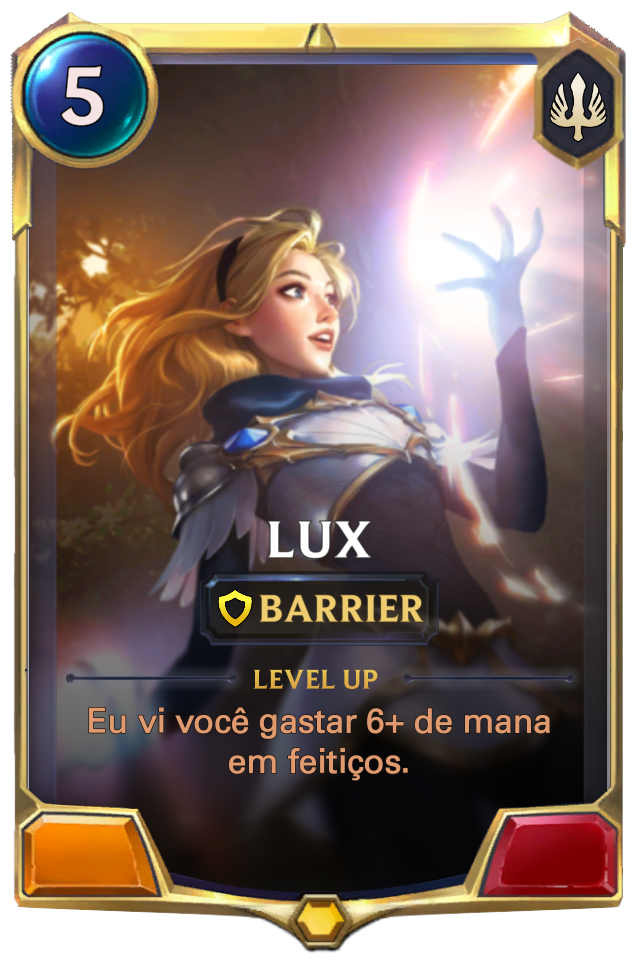
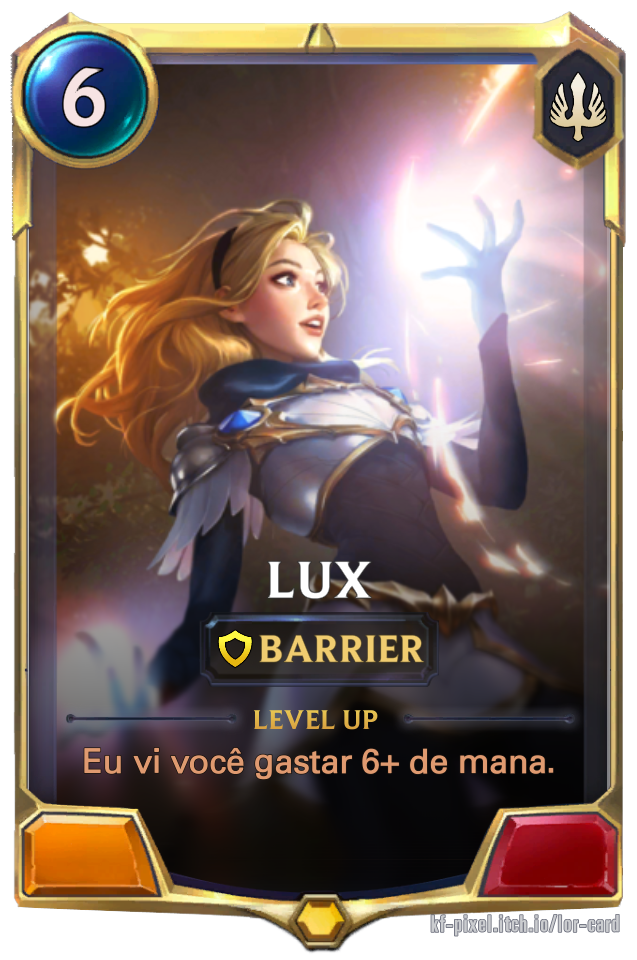
Implementado Lucian e criados alguns efeitos novos para cartas em Effects.java

diff --git a/LegendsOfRuneterra/src/game/Game.java b/LegendsOfRuneterra/src/game/Game.java
@@ -86,6 +86,7 @@ public class Game {
                         else {
                             validTurn = true;
                             currentPlayer.removeCard(nextCard);
+                            updateAllEffects(Trigger.SPENT_MANA, currentPlayer.getBoard(), opponentBoard, nextCard.getCost());
                             checkDeaths(currentPlayer.getBoard(), opponentBoard);
                             checkDeaths(opponentBoard, currentPlayer.getBoard());
                             passed = false;
@@ -126,8 +127,8 @@ public class Game {
                     follower.heal(0, true);
                 }
             }
-            updateAllEffects(Trigger.ROUND_END, blueBoard, redBoard);
-            updateAllEffects(Trigger.ROUND_END, redBoard, blueBoard);
+            updateAllEffects(Trigger.ROUND_END, blueBoard, redBoard, 0);
+            updateAllEffects(Trigger.ROUND_END, redBoard, blueBoard, 0);
         }
 
         if (loser == Color.BLUE) {
@@ -171,7 +172,7 @@ public class Game {
         int[] toAttack = Arrays.stream(scan.nextLine().split(" ")).mapToInt(Integer::parseInt).toArray();
         for (int i = 0; i < toAttack.length; i++){
             for (Effect effect : attackingBoard.getCards().get(i).getEffects()){
-                effect.checkTrigger(Trigger.ATTACK, attackingBoard, defendingBoard, attackingBoard.getCards().get(i));
+                effect.checkTrigger(Trigger.ATTACK, attackingBoard, defendingBoard, attackingBoard.getCards().get(i), 0);
             }
             attackingBoard.moveToCombat(i, toAttack[i]);
         }
@@ -199,7 +200,9 @@ public class Game {
                     attackers.get(i).strike(defenders.get(i), attackingBoard, defendingBoard);
                 }
                 attackers.get(i).strike(defenders.get(i), attackingBoard, defendingBoard);
-                defenders.get(i).strike(attackers.get(i), attackingBoard, defendingBoard);
+                if (attackers.get(i).hasTrait(Trait.DOUBLE_ATTACK) == false && attackers.get(i).hasTrait(Trait.QUICK_ATTACK) == false && defenders.get(i).getCurrentHealth() > 0){
+                    defenders.get(i).strike(attackers.get(i), attackingBoard, defendingBoard);
+                }
             }
             if (attackers.get(i).hasTrait(Trait.FURY) && defenders.get(i).getCurrentHealth() <= 0){
                 attackers.get(i).triggerFury();
@@ -238,8 +241,8 @@ public class Game {
 
         checkWin(attackingPlayer);
         
-        updateAllEffects(Trigger.ROUND_START, redBoard, blueBoard);
-        updateAllEffects(Trigger.ROUND_START, blueBoard, redBoard);
+        updateAllEffects(Trigger.ROUND_START, redBoard, blueBoard, 0);
+        updateAllEffects(Trigger.ROUND_START, blueBoard, redBoard, 0);
     }
 
     private void checkDeaths(Board myBoard, Board opponentBoard){
@@ -250,8 +253,9 @@ public class Game {
                 }
                 else {
                     for (Effect effect : myBoard.getCombatingFollowers().get(i).getEffects()){
-                        effect.checkTrigger(Trigger.LAST_BREATH, myBoard, opponentBoard, myBoard.getCombatingFollowers().get(i));
+                        effect.checkTrigger(Trigger.LAST_BREATH, myBoard, opponentBoard, myBoard.getCombatingFollowers().get(i), 0);
                     }
+                    updateAllEffects(Trigger.SEEN_ALLY_DIE, myBoard, opponentBoard, 0);
                     myBoard.getCombatingFollowers().remove(i);
                 }
             }
@@ -259,10 +263,10 @@ public class Game {
     }
 
 
-    private void updateAllEffects(Trigger trigger, Board myBoard, Board opponentBoard){
+    private void updateAllEffects(Trigger trigger, Board myBoard, Board opponentBoard, int amount){
         for (Follower follower : myBoard.getCards()) {
             for (Effect effect : follower.getEffects()) {
-                effect.checkTrigger(trigger, myBoard, opponentBoard, follower);
+                effect.checkTrigger(trigger, myBoard, opponentBoard, follower, amount);
             }
         }
     }

diff --git a/LegendsOfRuneterra/src/card/Effect.java b/LegendsOfRuneterra/src/card/Effect.java
@@ -38,7 +38,7 @@ public class Effect implements Cloneable{
         this.cardName = cardName;
     }
 
-    private void applyEffect(game.Board myBoard, game.Board opponentBoard, Follower self_follower) {
+    private void applyEffect(game.Board myBoard, game.Board opponentBoard, Follower self_follower, int amount3) {
         Scanner scan = new Scanner(System.in);
 
         switch(effect) {
@@ -163,9 +163,9 @@ public class Effect implements Cloneable{
                     ally = scan.nextInt();
                 }
                 else {
-                    ally = myBoard.getPlayer().getRandomResult(myBoard.getCards().size());
+                    ally = opponentBoard.getPlayer().getRandomResult(opponentBoard.getCards().size());
                 }
-                myBoard.getCards().get(ally).addTempBuff(-myBoard.getCards().get(ally).getTemporaryPower(), 0);
+                opponentBoard.getCards().get(ally).addTempBuff(-myBoard.getCards().get(ally).getTemporaryPower(), 0);
             }
 
             case 10: // Cria uma barreira que anula o próximo dano que uma unidade aliada levaria. Dura uma rodada.
@@ -187,25 +187,45 @@ public class Effect implements Cloneable{
             case 11: //Golpeia o nexus do adversário para n pontos de dano.
             opponentBoard.getPlayer().takeDamage(amount1);
     
-            case 12://efeito de buff temporário
+            case 12://Efeito de buff temporário
             self_follower.buff(-amount1, -amount2);
             self_follower.getEffects().remove(this);
 
             case 13://Evolução
-            amount1 += 1;
-            Champion champion = (Champion)self_follower;
-            champion.checkEvolution();
-
+            amount1 += amount3;
+            if (amount1 >= amount2){
+                Champion champion = (Champion)self_follower;
+                champion.checkEvolution();
+            }
+            
             case 14: //Deixe o inimigo mais forte com 0 de poder nesta rodada.
-
+            if (opponentBoard.getCards().size() != 0){
+                Follower mostPowerful = opponentBoard.getCards().get(0);
+                for (Follower follower : opponentBoard.getCards()){
+                    if (follower.getTemporaryPower() > mostPowerful.getTemporaryPower()){
+                        mostPowerful = follower;
+                    }
+                }
+                mostPowerful.addTempBuff(-mostPowerful.getTemporaryPower(), 0);
+            }
+            
             case 15: //Dê n de dano a todas as unidades.
+            for (Follower opponent : opponentBoard.getCards()){
+                opponent.takeDamage(amount1);
+            }
+            for (Follower ally : myBoard.getCards()){
+                ally.takeDamage(amount1);
+            }
+            
+            case 16://Dê +n/+m a si mesmo
+            self_follower.buff(amount1, amount2);
         }
         scan.close();
     }
 
-    public void checkTrigger(Trigger occurredTrigger, Board myBoard, Board opponentBoard, Follower follower){
+    public void checkTrigger(Trigger occurredTrigger, Board myBoard, Board opponentBoard, Follower follower, int amount){
         if (trigger == occurredTrigger){
-            applyEffect(myBoard, opponentBoard, follower);
+            applyEffect(myBoard, opponentBoard, follower, amount);
         }
     }
 

diff --git a/LegendsOfRuneterra/src/card/champion/demacia/Lucian.java b/LegendsOfRuneterra/src/card/champion/demacia/Lucian.java
@@ -1,24 +1,31 @@
 package card.champion.demacia;
 
+import card.Effect;
 import card.Region;
 import card.Trait;
+import card.Trigger;
 import card.champion.Champion;
 
 public class Lucian extends Champion {
 
-  private int increasedPower;
+  private int evolutionCounter;
 
   public Lucian() {
-    super("Lucian", "Subir de nível\n ", 2, 2, 3, Region.DEMACIA);
-    this.traits.add(Trait.DOUBLE_ATTACK);
+    super("Lucian", "Subir de nível\n ", 2, 2, 3, Region.DEMACIA, "/src/assets/demacia/lucian.png");
+    this.traits.add(Trait.QUICK_ATTACK);
 
-    this.increasedPower = 0;
+    this.evolutionCounter = 0;
   }
 
   @Override
   public void evolve() {
     System.out.println("Lucian Evoluiu!");
     System.out.println("Lucian - Todo mundo morre, alguns só precisam de uma ajudinha!!");
+
+    effects.remove(0);
+    effects.add(new Effect(16, 1, 0, Trigger.SEEN_ALLY_DIE));
+    traits.remove(Trait.QUICK_ATTACK);
+    traits.add(Trait.DOUBLE_ATTACK);
 
     this.basePower = 4;
     this.baseHealth = 3;
@@ -27,11 +34,11 @@ public class Lucian extends Champion {
   }
 
   @Override
-  public boolean checkEvolution() {
-    if (this.increasedPower >= 2) {
-      return true;
+  public void checkEvolution() {
+    evolutionCounter += 1;
+    if (evolutionCounter >= 4){
+      evolve();
     }
-    return false;
   }
 
 }

diff --git a/LegendsOfRuneterra/src/card/Follower.java b/LegendsOfRuneterra/src/card/Follower.java
@@ -126,7 +126,7 @@ public class Follower extends Card {
     public void strike(Player player, Board myBoard) {
         if (this.temporaryPower > 0) {
             for (Effect effect : effects) {
-                effect.checkTrigger(Trigger.STRIKE, myBoard, player.getBoard(), this);
+                effect.checkTrigger(Trigger.STRIKE, myBoard, player.getBoard(), this, 0);
             }
             player.takeDamage(this.temporaryPower);
         }
@@ -135,12 +135,12 @@ public class Follower extends Card {
     public void strike(Follower defender, Board myBoard, Board opponentBoard) {
         if (this.temporaryPower > 0) {
             for (Effect effect : effects) {
-                effect.checkTrigger(Trigger.STRIKE, myBoard, opponentBoard, this);
+                effect.checkTrigger(Trigger.STRIKE, myBoard, opponentBoard, this, 0);
             }
             defender.takeDamage(this.temporaryPower);
             if (defender.getCurrentHealth() <= 0) {
                 for (Effect effect : effects) {
-                    effect.checkTrigger(Trigger.DESTROY_OPPONENT, myBoard, opponentBoard, this);
+                    effect.checkTrigger(Trigger.DESTROY_OPPONENT, myBoard, opponentBoard, this, 0);
                 }
             }
         }

diff --git a/LegendsOfRuneterra/src/card/champion/demacia/Lux.java b/LegendsOfRuneterra/src/card/champion/demacia/Lux.java
@@ -7,20 +7,23 @@ import card.champion.Champion;
 
 public class Lux extends Champion {
 
-  private int damageDone;
+  private int spentMana;
 
   public Lux(String name, String description, int cost, int baseHealth, int basePower, Region region,
       Effect[] newEffects, Trait[] traits) {
-    super("Lux", "Lul", 5, 5, 3, Region.DEMACIA, "/src/assets/demacia/lux.png");//adicionar imagem
+    super("Lux", "Lul", 5, 5, 3, Region.DEMACIA, "/src/assets/demacia/lux.png");
     this.addTrait(Trait.BARRIER);
 
-    this.damageDone = 0;
+    this.spentMana = 0;
   }
 
   @Override
   public void evolve() {
     System.out.println("Lux Evoluiu!");
     System.out.println("Lux - Escondi minha luz por tempo demais!!");
+
+    effects.remove(0);
+    effects.add(new Effect)
 
     this.basePower = 5;
     this.baseHealth = 6;
@@ -29,11 +32,11 @@ public class Lux extends Champion {
   }
 
   @Override
-  public boolean checkEvolution() {
-    if (this.damageDone >= 12) {
-      return true;
+  public void checkEvolution() {
+    spentMana += 1;
+    if (spentMana >= 6){
+      evolve();
     }
-    return false;
   }
 
 }

diff --git a/LegendsOfRuneterra/src/game/Board.java b/LegendsOfRuneterra/src/game/Board.java
@@ -30,7 +30,7 @@ public class Board{
         cards.remove(followerNum);
         cards.add(card);
         for (Effect effect : card.getEffects()) {
-            effect.checkTrigger(Trigger.PLAY, this, opponentBoard, card);
+            effect.checkTrigger(Trigger.PLAY, this, opponentBoard, card, 0);
         }
     }
 
@@ -59,7 +59,7 @@ public class Board{
         } else if (player.spendMana(card.getCost(), false)) {
             cards.add(card);
             for (Effect effect : card.getEffects()) {
-                effect.checkTrigger(Trigger.PLAY, this, opponentBoard, card);
+                effect.checkTrigger(Trigger.PLAY, this, opponentBoard, card, 0);
             }
             return true;
         }

diff --git a/LegendsOfRuneterra/src/card/Spell.java b/LegendsOfRuneterra/src/card/Spell.java
@@ -11,7 +11,7 @@ public class Spell extends Card{
     public boolean playCard(Board myBoard, Board opponentBoard) {
         if (myBoard.getPlayer().spendMana(cost, true)){
             for (Effect effect : effects){
-                effect.checkTrigger(Trigger.PLAY, myBoard, opponentBoard, null);
+                effect.checkTrigger(Trigger.PLAY, myBoard, opponentBoard, null, 0);
             }
             return true;
         }

diff --git a/LegendsOfRuneterra/src/card/Trait.java b/LegendsOfRuneterra/src/card/Trait.java
@@ -1,3 +1,12 @@
 package card;
 
-public enum Trait {DOUBLE_ATTACK, ELUSIVE, FURY, REGENERATION, BARRIER}
+public enum Trait {
+    
+    DOUBLE_ATTACK,
+    ELUSIVE,
+    FURY,
+    REGENERATION,
+    BARRIER,
+    QUICK_ATTACK
+    
+}

diff --git a/LegendsOfRuneterra/src/card/Trigger.java b/LegendsOfRuneterra/src/card/Trigger.java
@@ -10,6 +10,8 @@ public enum Trigger {
     ATTACK,
     TAKE_DAMAGE,//nao implementado porque nao ha cartas que usam ainda
     ROUND_END,
-    DRAW_CARD//o mesmo
+    DRAW_CARD,//o mesmo
+    SEEN_ALLY_DIE,
+    SPENT_MANA
     
 }
